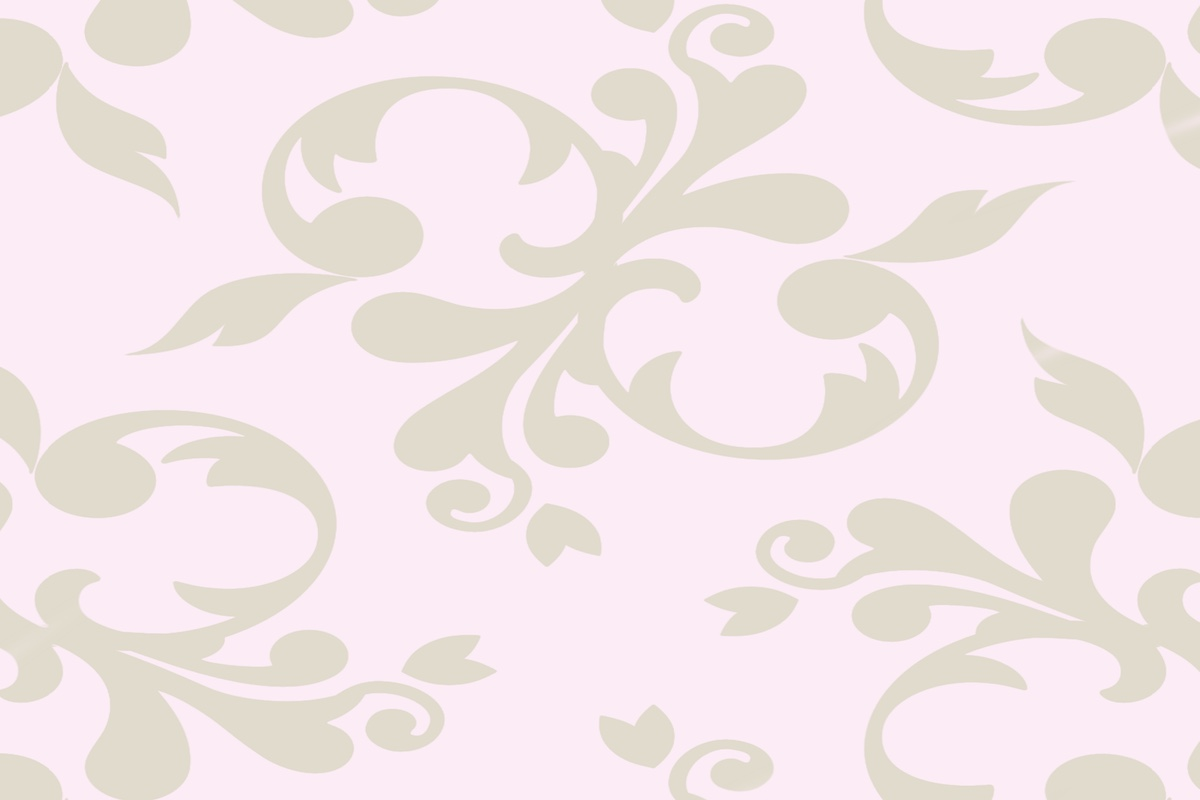
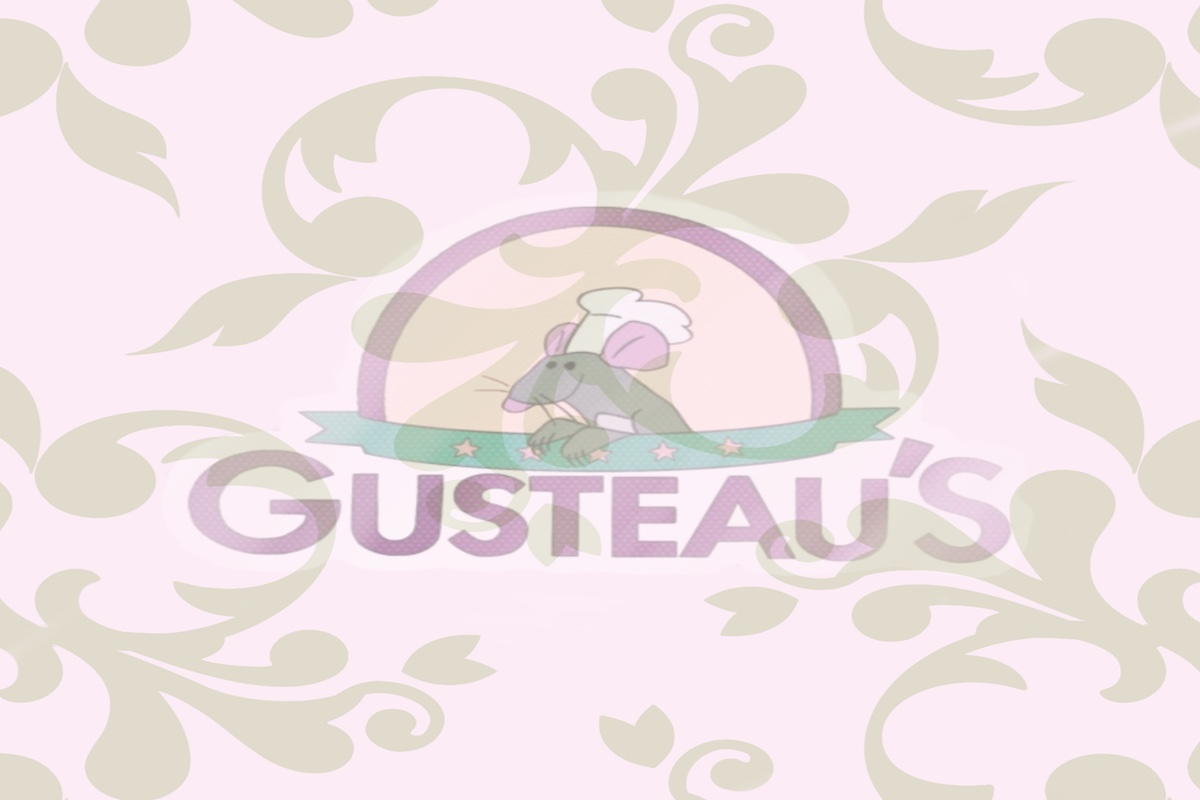
some almost final touches (added pics for objects, etc)

Changed region(s): [[0.1542, 0.25, 0.8633, 0.7188]]

diff --git a/main.py b/main.py
@@ -12,8 +12,10 @@ WIDTH = 1200
 HEIGHT = 800  
 
 # load in image for play screen and win/lose/title
-kitchenFloor = pygame.image.load("data/kitchenFloor.JPG")
+kitchenFloor = pygame.image.load("data/kitchenFloor.jpg")
 loseScreen = pygame.image.load("data/loseScreen.JPEG")
+winScreen = pygame.image.load("data/winScreen.JPEG")
+homeScreen = pygame.image.load("data/homeScreen.JPEG")
 
 # make the game window option
 WINDOW = pygame.display.set_mode((WIDTH, HEIGHT))
@@ -51,7 +53,7 @@ def buttonPresses():
     global switchVal
 
     #handle player movement from key presses
-    #also handle my busted switch case if elif statement ladder
+    # also handle my busted switch case if elif statement ladder
     # this gets a list of booleans showing which keys are currently pressed
     keysPressed = pygame.key.get_pressed()
 
@@ -94,11 +96,11 @@ def main():
 
         #starting/menu screen
         if switchVal == 0:
+            WINDOW.blit(homeScreen, (0,0))
             buttonPresses()
             player.health = 5
             player.points = 0
             player.isDead = False
-            #write code stuffs to put in menu screen
         
         #playing screen
         if switchVal == 1:
@@ -112,8 +114,6 @@ def main():
             #player functions
             player.render(WINDOW)
             player.ratDeath()
-
-            #i need to make a function in the rat class that displays points and health with text
 
             # yes i could have used lists for the crumbs and knives
             # no i did not want to
@@ -140,11 +140,13 @@ def main():
 
         #winning screen
         if switchVal == 2:
+            WINDOW.blit(winScreen, (0,0))
             buttonPresses()
             #put in stuff here to load the winning screen
 
         #losing screen
         if switchVal == 3:
+            WINDOW.blit(loseScreen, (0,0))
             buttonPresses()
             #put in stuff here to load the losing screen
 

diff --git a/Rat.py b/Rat.py
@@ -3,7 +3,7 @@ import pygame
 WIDTH = 1200   
 HEIGHT = 800  
 WINDOW = pygame.display.set_mode((WIDTH, HEIGHT))
-#remyPlayer = pygame.image.load("data/remyPlayer.JPG").convert()
+remyPlayer = pygame.image.load("data/remyPlayer.png")
 
 class Rat:
 
@@ -25,7 +25,7 @@ class Rat:
         self.ratRect = pygame.Rect(self.x, self.y, self.width, self.height)
 
         #drawing rectangle
-        pygame.draw.rect(_surface, (255, 0, 255), self.ratRect)
+        WINDOW.blit(remyPlayer, (self.x,self.y)) 
 
     #death function (how morbid)
     def ratDeath(self):

diff --git a/Crumb.py b/Crumb.py
@@ -1,6 +1,10 @@
 import random
 import pygame
 
+WIDTH = 1200   
+HEIGHT = 800  
+WINDOW = pygame.display.set_mode((WIDTH, HEIGHT))
+crumbItem = pygame.image.load("data/crumbItem.png")
 
 class Crumb:
 
@@ -19,7 +23,7 @@ class Crumb:
         self.crumbRect = pygame.Rect(self.x, self.y, self.width, self.height)
 
         #drawing rectangle
-        pygame.draw.rect(_surface, (219, 167, 77), self.crumbRect)
+        WINDOW.blit(crumbItem, (self.x,self.y)) 
 
     #movement function
     def crumbMove(self, _width, _height):

diff --git a/Knife.py b/Knife.py
@@ -1,5 +1,9 @@
 import random
 import pygame
+WIDTH = 1200   
+HEIGHT = 800  
+WINDOW = pygame.display.set_mode((WIDTH, HEIGHT))
+knifeItem = pygame.image.load("data/knifeItem.png")
 
 class Knife:
 
@@ -18,7 +22,7 @@ class Knife:
         self.knifeRect = pygame.Rect(self.x, self.y, self.width, self.height)
 
         #drawing rectangle
-        pygame.draw.rect(_surface, (122, 117, 106), self.knifeRect)
+        WINDOW.blit(knifeItem, (self.x,self.y)) 
 
     #movement function
     def knifeMove(self, _width, _height):
